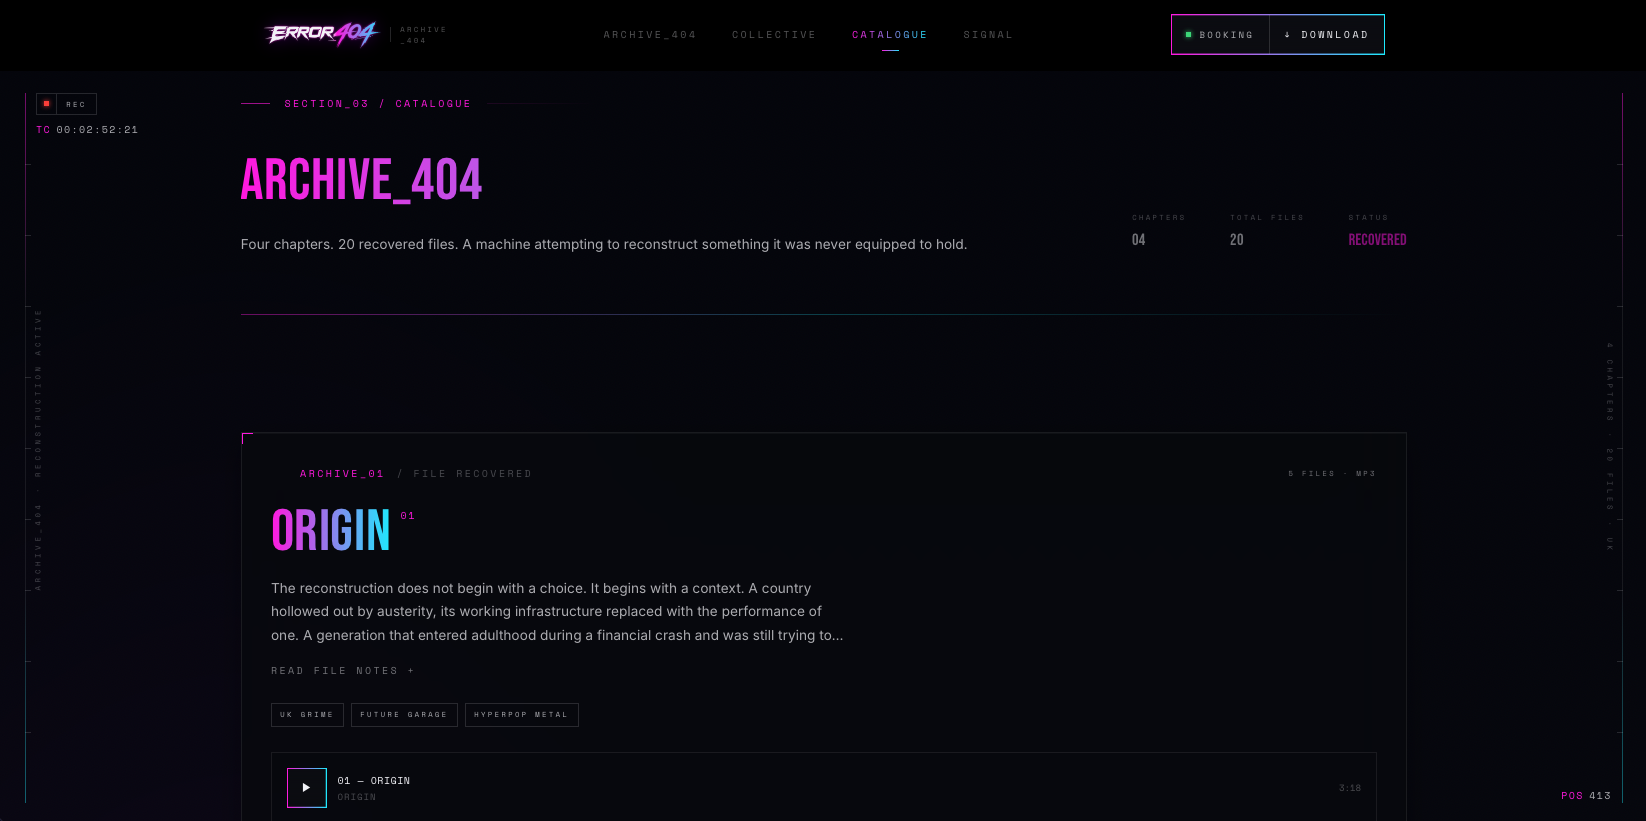
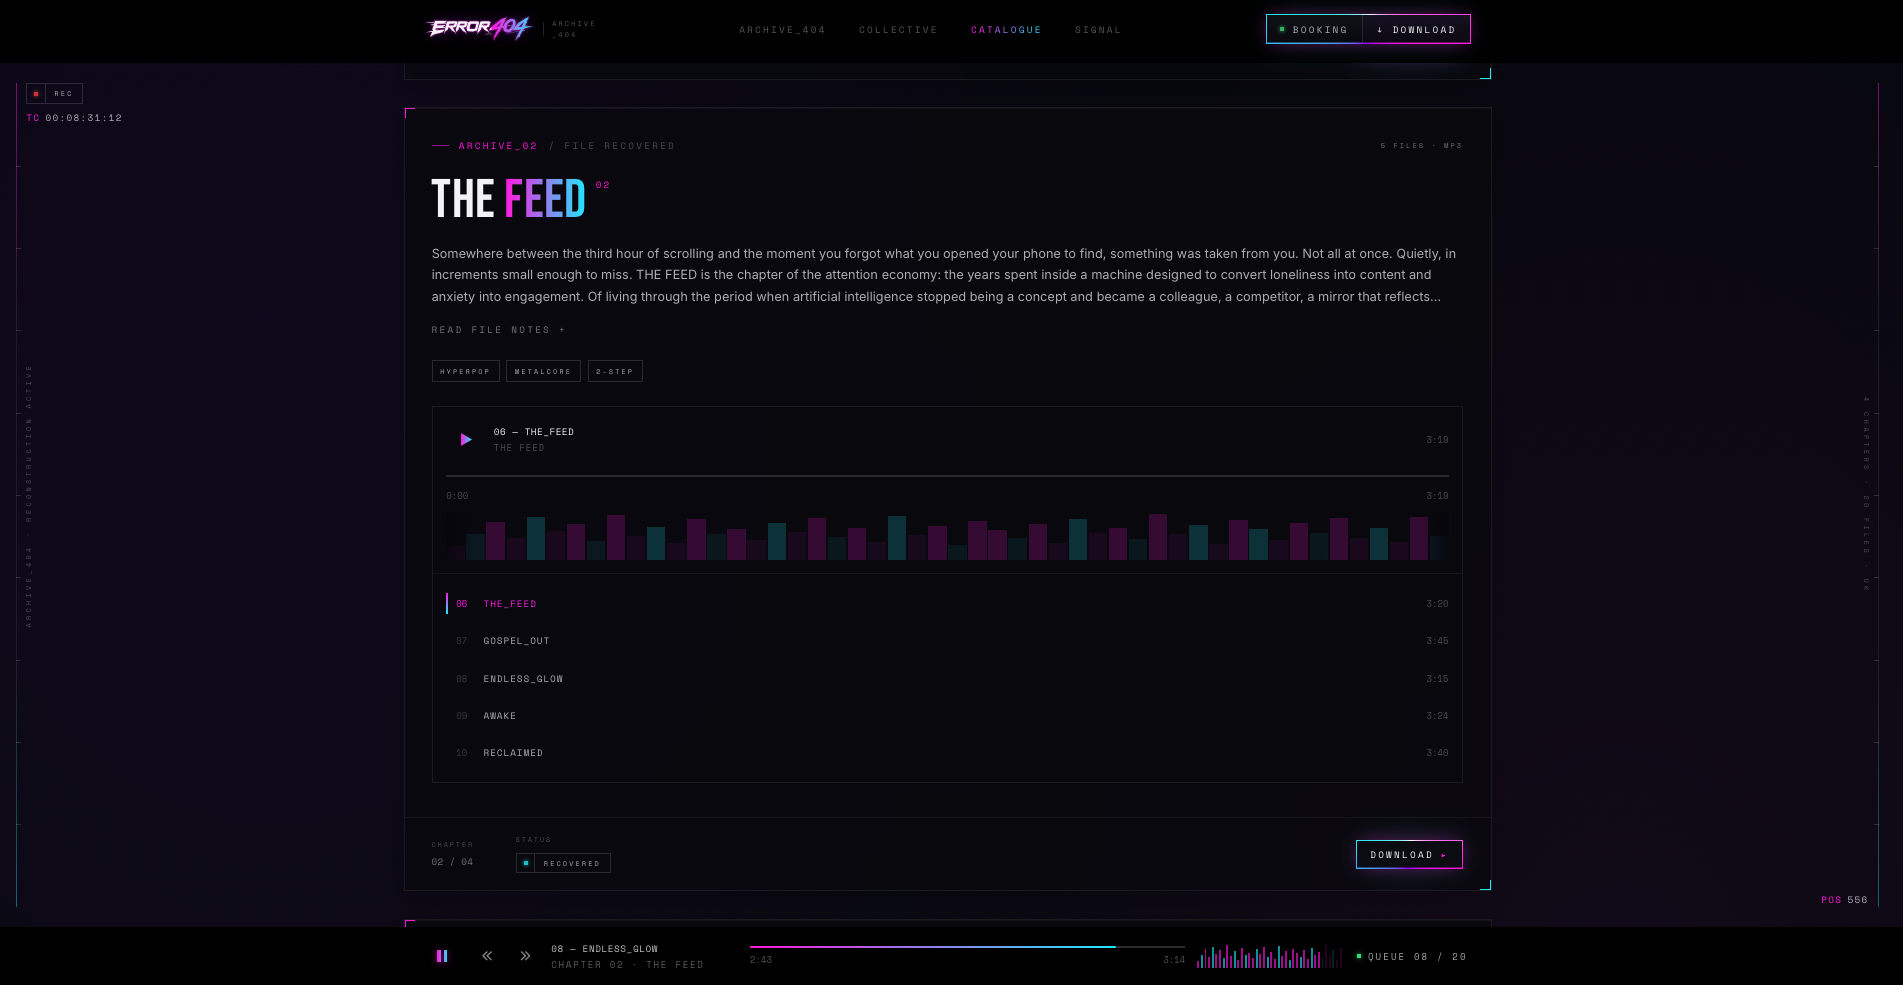
Docs: new README screenshots (hero, catalogue, phone)
Fresh screenshots of the redesigned site: the desktop hero with the dock
playing, THE FEED chapter card with the new genre tags and gradient play
key, and the phone hero mid tagline-swap with the dock. Alt text and
captions updated to match.

diff --git a/README.md b/README.md
@@ -31,17 +31,17 @@ Four chapters. Twenty recovered files. One transmission.
 ## Screens
 
 <p align="center">
-  <img src="docs/screenshot-hero.png" alt="Hero: the outline-cut ERROR_404 logo over the skyline artwork, with the REC timecode gutter" width="100%" />
+  <img src="docs/screenshot-hero.png" alt="Hero: the outline ERROR_404 logo lit from inside by the flashlight over the skyline artwork, the REC timecode gutter, and the player dock playing 08 ENDLESS_GLOW" width="100%" />
 </p>
 
 <table>
   <tr>
-    <td width="72%"><img src="docs/screenshot-catalogue.png" alt="Catalogue: ARCHIVE_404 heading and the ORIGIN chapter card with its player" /></td>
-    <td width="28%"><img src="docs/screenshot-mobile.png" alt="Phone: hero with the prompt menu icon" /></td>
+    <td width="72%"><img src="docs/screenshot-catalogue.png" alt="Catalogue: THE FEED chapter card with hyperpop · metalcore · 2-step tags, the gradient play key, waveform and tracklist, with the dock below" /></td>
+    <td width="28%"><img src="docs/screenshot-mobile.png" alt="Phone: hero with the HYPERPOP MAXIMALISM tagline, the distressed menu icon and the dock playing 07 GOSPEL_OUT" /></td>
   </tr>
   <tr>
-    <td align="center"><sub>Catalogue: chapter cards with built-in players</sub></td>
-    <td align="center"><sub>Phone</sub></td>
+    <td align="center"><sub>Catalogue: chapter cards with built-in players, and the dock on every page</sub></td>
+    <td align="center"><sub>Phone: the hyperpop tagline and the dock</sub></td>
   </tr>
 </table>
 
